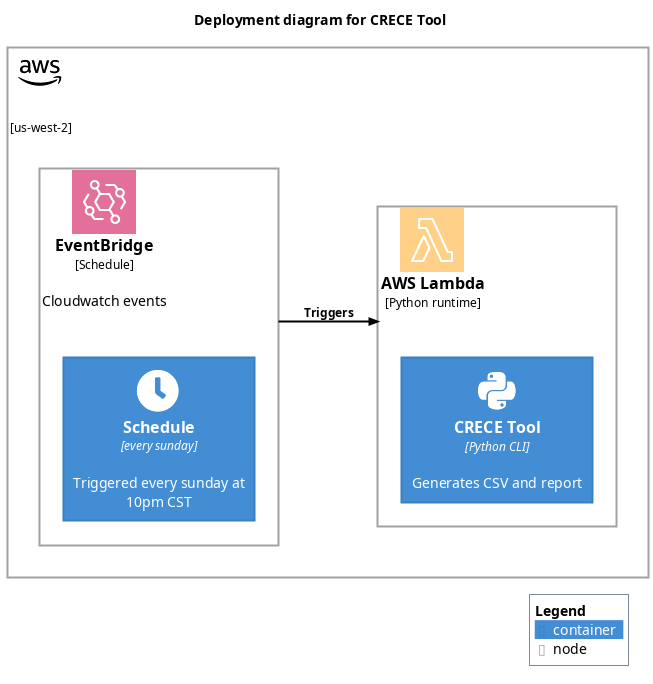
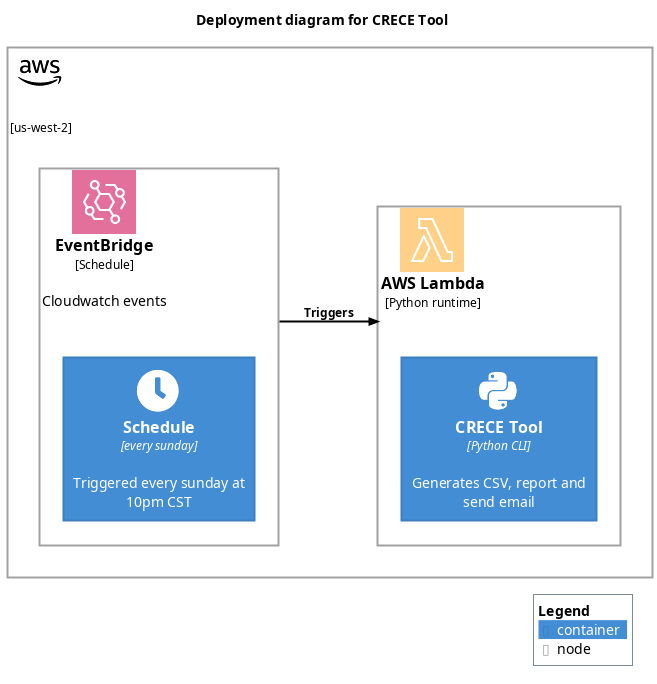
Update requirements

diff --git a/docs/requirements.md b/docs/requirements.md
@@ -27,7 +27,36 @@
 <li><a href="#orgheadline12">2.2. C4 Deployment Diagram</a></li>
 </ul>
 </li>
-<li><a href="#orgheadline14">3. Backlog</a></li>
+<li><a href="#orgheadline14">3. <span class="todo TODO">TODO</span> Backlog</a></li>
+<li><a href="#orgheadline28">4. <span class="todo TODO">TODO</span> Write GUI <code>[/]</code></a>
+<ul>
+<li>
+<ul>
+<li><a href="#orgheadline15">4.0.1. <span class="done DONE">DONE</span> Write Github Actions workflow to build app in Windows and macOs</a></li>
+</ul>
+</li>
+<li><a href="#orgheadline21">4.1. <span class="todo TODO">TODO</span> Write CLI <code>[0/4]</code></a>
+<ul>
+<li><a href="#orgheadline16">4.1.1. <span class="done DONE">DONE</span> Write mailchimp connector</a></li>
+<li><a href="#orgheadline17">4.1.2. <span class="done DONE">DONE</span> Write reporting module using jinja2</a></li>
+<li><a href="#orgheadline18">4.1.3. <span class="todo TODO">TODO</span> Write sentiment analysis module POC with scikit</a></li>
+<li><a href="#orgheadline20">4.1.4. <span class="todo TODO">TODO</span> Write email system module</a></li>
+</ul>
+</li>
+<li><a href="#orgheadline24">4.2. <span class="done DONE">DONE</span> MVP deployed in Github Action Runners <code>[2/2]</code></a>
+<ul>
+<li><a href="#orgheadline22">4.2.1. <span class="done DONE">DONE</span> Write Github Actions workflow to send email with github action</a></li>
+<li><a href="#orgheadline23">4.2.2. <span class="done DONE">DONE</span> Write Github Actions workflow to trigger workflow weekly</a></li>
+</ul>
+</li>
+<li><a href="#orgheadline27">4.3. <span class="todo TODO">TODO</span> Lambda Function deployed in AWS <code>[0/3]</code></a>
+<ul>
+<li><a href="#orgheadline25">4.3.1. <span class="todo TODO">TODO</span> Write terraform module of AWS Lambda and trigger</a></li>
+<li><a href="#orgheadline26">4.3.2. <span class="todo TODO">TODO</span> Write Github Actions workflow to deploy lambda</a></li>
+</ul>
+</li>
+</ul>
+</li>
 </ul>
 </div>
 </div>
@@ -37,14 +66,14 @@
 
 ## Situation<a id="orgheadline1"></a>
 
-CRECE team needs to retrieve emails from mailchimp list to identify new persons, location and prayer requests so they can follow up during the week.
-Actual situation is they rotate team every week, one persons does the following tasks:
+CRECE team needs to retrieve emails from mailchimp list to identify new persons, locations and prayer requests so they can follow up during the week.
+Current situation is they rotate team every week, one or two persons do following tasks:
 
 -   If new person, must download Excel macro from drive, Google drive and Mailchimp credentials.
 -   Log in into mailchimp CRECE account and manually download list.
 -   Run macro and process data and upload new entries to shared spreadsheet in google drive.
 -   Identify new persons and make a list of prayer requests.
--   Call those persons during the week and follow up prayer requests.
+-   Call those persons during the week and follow up with prayer requests.
     
     Problems are this has many security and privacy issue as sensitive data is shared with multiple people, including new members.
     Also some persons are not excel expert and have problem running excel macro.
@@ -62,20 +91,21 @@ First a Tkinter Python cross platform UI was created which replaced Excel macro,
 ### Iteration 2<a id="orgheadline4"></a>
 
 Second a architecture plan was proposed which includes a lambda triggered weekly which downloads more recent data from mailchimp, process it, creates a report and sends it to CRECE team email address.
+Python CLI was extended from GUI code so it can download data from Mailchimp API, generate chart bar reports and sent report via Gmail. Solution is deployed on a Github Runner and triggered weekly.
 
 ### Iteration 3<a id="orgheadline5"></a>
 
-A sentiment analysis is implemented to classify prayer requests into know categories, so prayer can be divided into multiple CRECE team who are akin.
+A sentiment analysis is implemented to classify prayer requests into know categories, so prayer can be assigned to CRECE team members according to their expertise.
 
 ## Results<a id="orgheadline9"></a>
 
 ### Iteration 1<a id="orgheadline7"></a>
 
-It was identified that some persons use a old version of Macos which can't run GUI. Also some persons are not computer proficient users and have trouble running app.
+It was identified that some persons use a old version of Macos which can't run GUI. Also team members are not computer proficient and struggle to download and run the app.
 
 ### Iteration 2<a id="orgheadline8"></a>
 
-A python CLI was extended from GUI code which can download data from Mailchimp API and generate some chart bar reports and sent via Gmail. Solution is deployed on a Github Runner and trigger weekly.
+Half process is automated and team has more time to focus on calling people. Also POC assured this solution generates no costs.
 
 # Architecture<a id="orgheadline13"></a>
 
@@ -87,4 +117,32 @@ A python CLI was extended from GUI code which can download data from Mailchimp A
 
 ![img](deployment.png)
 
-# Backlog<a id="orgheadline14"></a>
+# TODO Backlog<a id="orgheadline14"></a>
+
+# TODO Write GUI <code>[/]</code><a id="orgheadline28"></a>
+
+### DONE Write Github Actions workflow to build app in Windows and macOs<a id="orgheadline15"></a>
+
+## TODO Write CLI <code>[0/4]</code><a id="orgheadline21"></a>
+
+### DONE Write mailchimp connector<a id="orgheadline16"></a>
+
+### DONE Write reporting module using jinja2<a id="orgheadline17"></a>
+
+### TODO Write sentiment analysis module POC with scikit<a id="orgheadline18"></a>
+
+### TODO Write email system module<a id="orgheadline20"></a>
+
+1.  TODO Create dataset and train SVC
+
+## DONE MVP deployed in Github Action Runners <code>[2/2]</code><a id="orgheadline24"></a>
+
+### DONE Write Github Actions workflow to send email with github action<a id="orgheadline22"></a>
+
+### DONE Write Github Actions workflow to trigger workflow weekly<a id="orgheadline23"></a>
+
+## TODO Lambda Function deployed in AWS <code>[0/3]</code><a id="orgheadline27"></a>
+
+### TODO Write terraform module of AWS Lambda and trigger<a id="orgheadline25"></a>
+
+### TODO Write Github Actions workflow to deploy lambda<a id="orgheadline26"></a>
